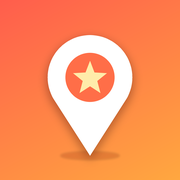
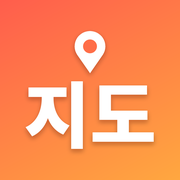
홈 화면 아이콘을 '지도' 한글 로고로 변경
- 주황 그라데이션 + 위치 핀 + '지도' 글자 (안드로이드·원형·아이폰·파비콘 전부)
- 서비스워커 v4로 새 아이콘 반영

Claude-Session: https://claude.ai/code/session_01LeGVEdPdGECYx9HC9WABHz

Changed region(s): [[0.1389, 0.1667, 0.8611, 0.9167]]

diff --git a/index.html b/index.html
@@ -456,7 +456,7 @@ let places   = LS.get('places', []);          // 저장한 장소
 let recents  = LS.get('recents', []);         // 최근 지역
 // 앱에 기본으로 들어 있는 카카오 JavaScript 키 (https://younguk06-sonny.github.io 에서만 동작)
 // 설정에서 다른 키를 넣으면 그 키를 우선 사용
-const APP_VER = '2026.11.06-5';   // 고칠 때마다 올림 (설정 화면 맨 아래에 표시)
+const APP_VER = '2026.11.06-6';   // 고칠 때마다 올림 (설정 화면 맨 아래에 표시)
 const BUILTIN_KAKAO_KEY = '76e1f2c0c1f996041b2d1c9441792ea1';
 function kakaoKey(){ return settings.kakaoKey || BUILTIN_KAKAO_KEY; }
 let settings = Object.assign({kakaoKey:'', openMode:'web', radius:3000, mode:'light'}, LS.get('settings', {}));

diff --git a/sw.js b/sw.js
@@ -1,6 +1,6 @@
 // 지도 앱 서비스워커 — 앱 화면을 기기에 저장해 두어 빠르게 열리게 함
 // 앱을 고친 뒤 GitHub에 다시 올릴 때는 아래 버전 숫자를 하나 올려 주세요 (v1 → v2)
-const CACHE = 'myeongso-v3';
+const CACHE = 'myeongso-v4';
 const FILES = [
   './', './index.html', './manifest.webmanifest',
   './icon-192.png', './icon-512.png', './icon-maskable-512.png',
